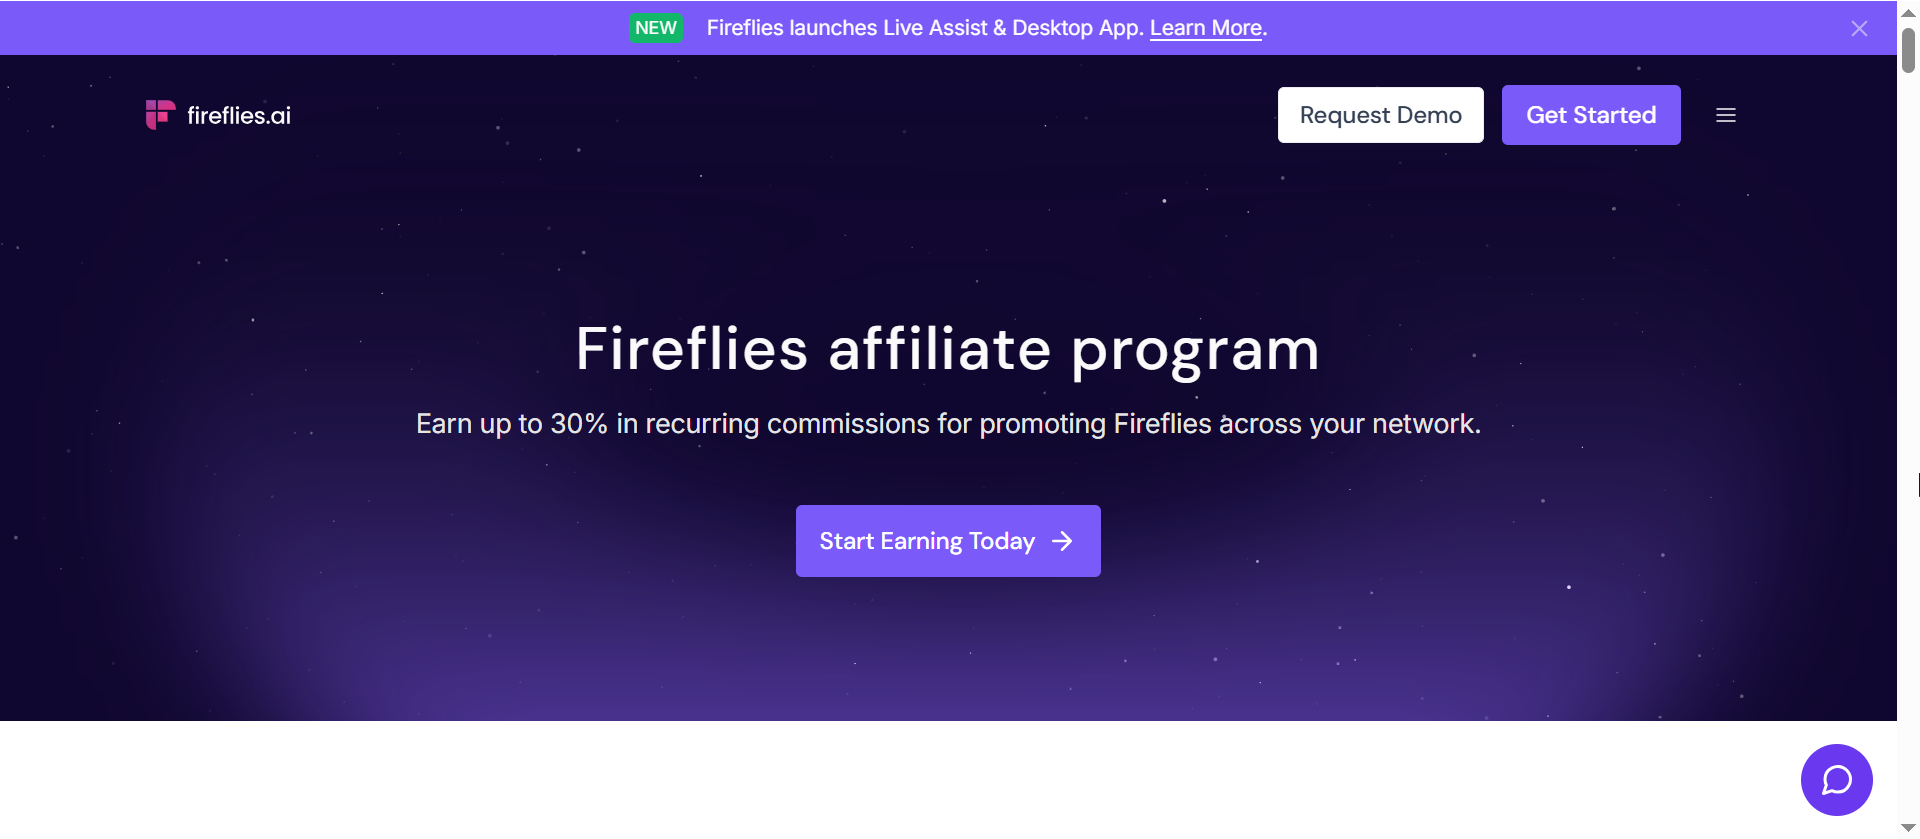
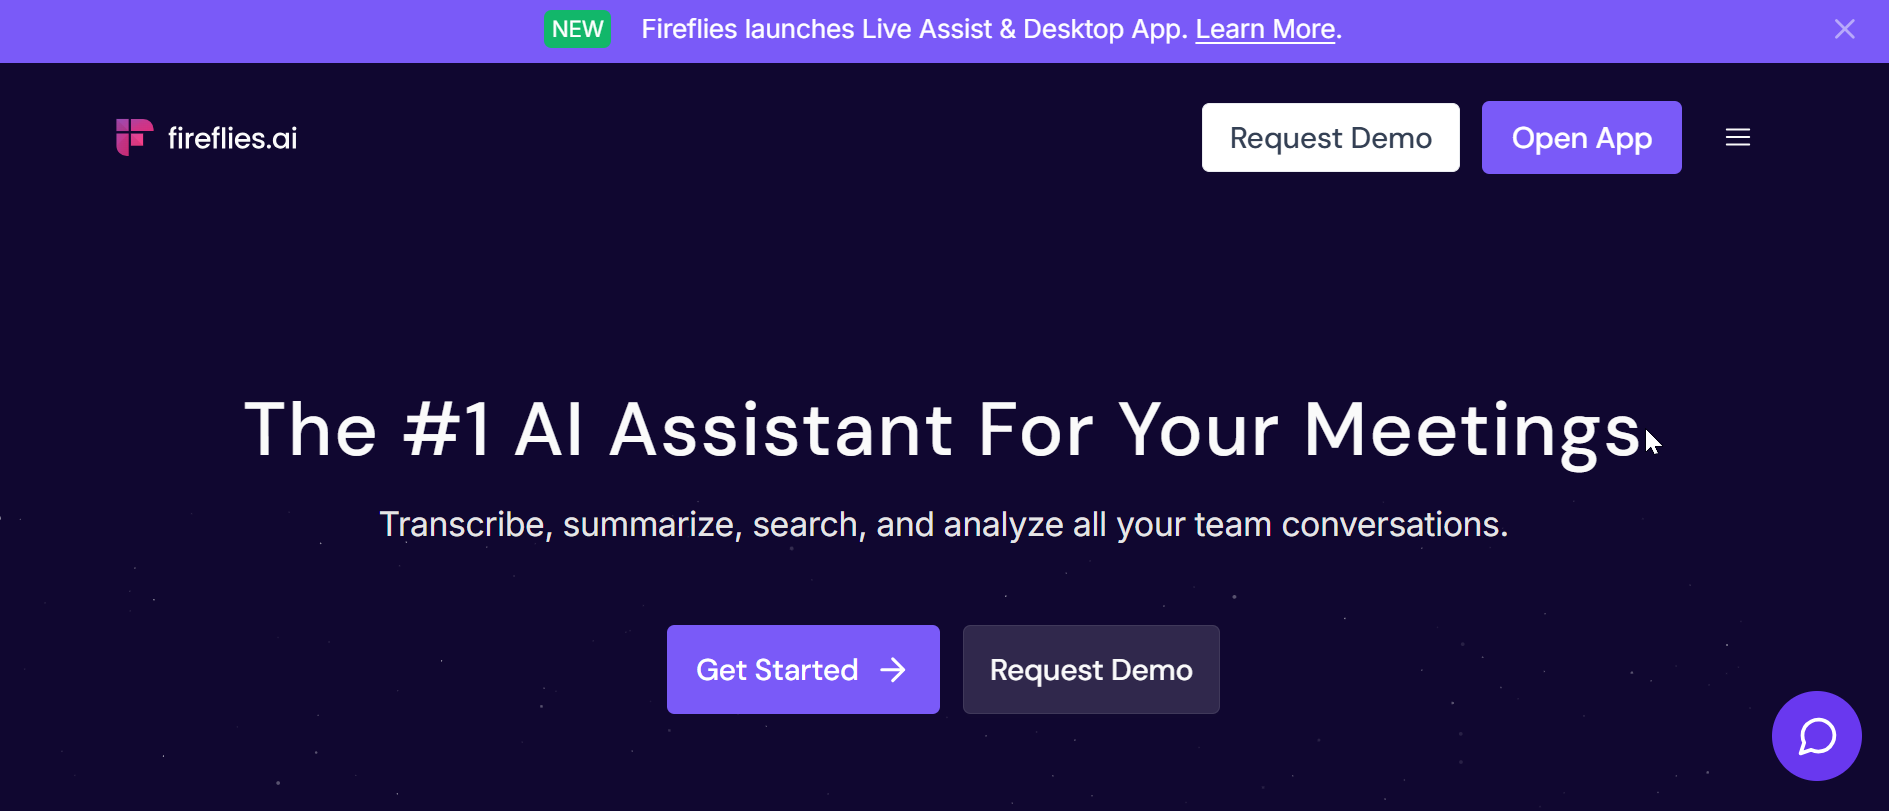
feat: implement initial B2B AI directory landing page with category filtering and tool cards

diff --git a/src/app/category/ai-meetings-intelligence/page.tsx b/src/app/category/ai-meetings-intelligence/page.tsx
@@ -1,0 +1,231 @@
+import type { Metadata } from "next";
+import Link from "next/link";
+import { platforms } from "@/data/platforms";
+import { Mic2, ArrowRight, Sparkles, CheckCircle2 } from "lucide-react";
+
+export const metadata: Metadata = {
+  title: "Top AI Meeting Assistants & Intelligence Tools | b2baistack.com",
+  description:
+    "Discover the best AI notetakers and meeting intelligence software to automate transcriptions, generate summaries, and sync data directly to your CRM.",
+  alternates: {
+    canonical: "https://b2baistack.com/category/ai-meetings-intelligence",
+  },
+  openGraph: {
+    title: "Top AI Meeting Assistants & Intelligence Tools | b2baistack.com",
+    description:
+      "Discover the best AI notetakers and meeting intelligence software to automate transcriptions, generate summaries, and sync data directly to your CRM.",
+    url: "https://b2baistack.com/category/ai-meetings-intelligence",
+    type: "website",
+  },
+};
+
+const CATEGORY_NAME = "AI Meetings & Intelligence";
+
+const categoryTools = platforms
+  .filter((p) => {
+    if (Array.isArray((p as any).categories)) {
+      return (p as any).categories.includes(CATEGORY_NAME);
+    }
+    return p.category === CATEGORY_NAME;
+  })
+  .sort((a: any, b: any) => {
+    if (a.featured && !b.featured) return -1;
+    if (!a.featured && b.featured) return 1;
+    return 0;
+  });
+
+const benefits = [
+  "Eliminate manual note-taking from every meeting",
+  "Get AI-generated summaries and action items instantly",
+  "Sync structured data directly to your CRM automatically",
+  "Search and replay any conversation across your entire team",
+  "Surface conversation intelligence to coach your sales reps",
+  "Stay aligned across distributed teams with zero friction",
+];
+
+export default function AIMeetingsIntelligencePage() {
+  return (
+    <div className="min-h-screen bg-[#050505] text-white font-sans">
+      {/* Ambient Background */}
+      <div className="fixed inset-0 pointer-events-none overflow-hidden z-0">
+        <div className="absolute top-[5%] left-[10%] w-[600px] h-[600px] rounded-full bg-indigo-900/15 blur-[140px]" />
+        <div className="absolute bottom-[10%] right-[10%] w-[500px] h-[500px] rounded-full bg-blue-900/10 blur-[120px]" />
+      </div>
+
+      {/* Nav */}
+      <nav className="relative z-50 flex items-center justify-between px-6 md:px-12 py-4 border-b border-white/[0.05] bg-black/20 backdrop-blur-xl">
+        <Link
+          href="/"
+          className="flex items-center gap-2 text-white font-semibold tracking-tight text-sm hover:opacity-80 transition-opacity"
+        >
+          <Sparkles className="w-4 h-4 text-indigo-400" />
+          <span>B2B AI Stack</span>
+        </Link>
+        <div className="flex items-center gap-2 text-xs text-gray-400">
+          <Link href="/" className="hover:text-white transition-colors">
+            Home
+          </Link>
+          <span className="text-gray-700">/</span>
+          <span className="text-gray-300">AI Meetings &amp; Intelligence</span>
+        </div>
+      </nav>
+
+      <main className="relative z-10 max-w-5xl mx-auto px-6 py-16 md:py-24">
+        {/* Category Badge */}
+        <div className="inline-flex items-center gap-2 px-3 py-1 rounded-full bg-indigo-500/10 border border-indigo-500/20 text-indigo-300 text-[11px] font-medium tracking-wide uppercase mb-6">
+          <span className="w-1.5 h-1.5 rounded-full bg-indigo-400 animate-pulse" />
+          Category · Published &amp; Active
+        </div>
+
+        {/* Hero Heading */}
+        <h1 className="text-4xl md:text-5xl lg:text-6xl font-bold tracking-tighter leading-none text-white mb-6">
+          AI Meetings &amp;{" "}
+          <span className="bg-gradient-to-r from-indigo-400 to-blue-400 bg-clip-text text-transparent">
+            Intelligence
+          </span>
+        </h1>
+
+        {/* Category Description */}
+        <p className="text-lg md:text-xl text-gray-400 max-w-2xl leading-relaxed mb-4">
+          Automate your meeting workflows. Transform voice conversations into
+          actionable insights, automated summaries, and structured CRM data with
+          AI-powered notetakers.
+        </p>
+
+        {/* Target Audience Chips */}
+        <div className="flex flex-wrap gap-2 mb-12">
+          {["B2B Professionals", "Sales Teams", "Operations Leads"].map(
+            (tag) => (
+              <span
+                key={tag}
+                className="text-[11px] px-3 py-1 rounded-full border border-white/10 bg-white/[0.03] text-gray-400"
+              >
+                {tag}
+              </span>
+            )
+          )}
+        </div>
+
+        {/* Benefits Grid */}
+        <section className="mb-16">
+          <h2 className="text-xl font-semibold text-white mb-6 tracking-tight">
+            Why Meeting Intelligence Matters for B2B Teams
+          </h2>
+          <div className="grid grid-cols-1 sm:grid-cols-2 gap-3">
+            {benefits.map((benefit) => (
+              <div
+                key={benefit}
+                className="flex items-start gap-3 p-4 rounded-2xl bg-white/[0.02] border border-white/[0.06] hover:border-indigo-500/30 hover:bg-indigo-500/5 transition-all duration-300"
+              >
+                <CheckCircle2 className="w-4 h-4 text-indigo-400 mt-0.5 shrink-0" />
+                <span className="text-sm text-gray-300 leading-snug">
+                  {benefit}
+                </span>
+              </div>
+            ))}
+          </div>
+        </section>
+
+        {/* Tool Cards */}
+        <section>
+          <h2 className="text-xl font-semibold text-white mb-2 tracking-tight">
+            Top AI Meeting Tools
+          </h2>
+          <p className="text-sm text-gray-500 mb-8">
+            Hand-picked tools used by B2B professionals, sales teams, and
+            operations leads to capture and act on every conversation.
+          </p>
+
+          <div className="grid grid-cols-1 md:grid-cols-2 gap-5">
+            {categoryTools.map((platform: any) => {
+              const Icon = platform.icon ?? Mic2;
+              return (
+                <div
+                  key={platform.id}
+                  className={`relative flex flex-col p-6 rounded-3xl overflow-hidden transition-all duration-300 hover:-translate-y-1 ${
+                    platform.featured
+                      ? "bg-white/[0.02] border-2 border-indigo-500/60 shadow-[0_0_40px_-8px_rgba(79,70,229,0.4)]"
+                      : "bg-zinc-900/50 border border-white/[0.07] hover:border-white/[0.15] hover:shadow-[0_0_30px_rgba(99,102,241,0.07)]"
+                  }`}
+                >
+                  {/* Glow overlay */}
+                  <div className="absolute inset-0 bg-gradient-to-br from-indigo-500/5 via-transparent to-transparent opacity-0 hover:opacity-100 transition-opacity duration-700 pointer-events-none" />
+
+                  <div className="relative z-10 flex items-start justify-between mb-4">
+                    <div className="p-2.5 bg-white/[0.04] border border-white/[0.08] rounded-xl">
+                      <Icon className="w-5 h-5 text-indigo-300" />
+                    </div>
+                    <div className="flex flex-col items-end">
+                      <span className="text-sm font-semibold text-white">
+                        {platform.metricBusiness ?? platform.metric}
+                      </span>
+                      <span className="text-[9px] uppercase tracking-wider text-gray-500">
+                        {platform.metricLabelBusiness ?? platform.metricLabel}
+                      </span>
+                    </div>
+                  </div>
+
+                  <div className="relative z-10 flex items-center gap-2 mb-2">
+                    <h3 className="text-base font-semibold text-white tracking-tight">
+                      {platform.name}
+                    </h3>
+                    {platform.featured && (
+                      <span className="px-2 py-[2px] rounded-full bg-cyan-900/30 border border-cyan-500/40 text-[9px] font-bold tracking-widest uppercase text-cyan-400">
+                        {platform.badgeText ?? "TOP PICK"}
+                      </span>
+                    )}
+                  </div>
+
+                  <p className="relative z-10 text-sm text-gray-400 leading-snug mb-4 flex-1">
+                    {platform.descBusiness ?? platform.descFreelancer ?? platform.shortDescription}
+                  </p>
+
+                  {platform.features && (
+                    <ul className="relative z-10 mb-5 space-y-1.5">
+                      {platform.features.slice(0, 3).map((feat: string, i: number) => (
+                        <li key={i} className="flex items-start gap-2 text-xs text-gray-500">
+                          <span className="mt-0.5 w-1 h-1 rounded-full bg-indigo-500/60 shrink-0" />
+                          <span className="line-clamp-1">
+                            {feat.includes(":") ? feat.split(":")[0] : feat}
+                          </span>
+                        </li>
+                      ))}
+                    </ul>
+                  )}
+
+                  <div className="relative z-10 flex gap-2 mt-auto">
+                    <Link
+                      href={`/tool/${platform.id}`}
+                      className="flex-1 text-center px-4 py-2 rounded-full bg-slate-800/60 hover:bg-slate-700 border border-slate-700 text-xs font-medium text-slate-200 hover:text-white transition-colors"
+                    >
+                      View Details
+                    </Link>
+                    <a
+                      href={platform.affiliateLink}
+                      target="_blank"
+                      rel="noopener noreferrer"
+                      className="flex items-center gap-1 px-4 py-2 rounded-full bg-indigo-600 hover:bg-indigo-500 text-xs font-semibold text-white transition-colors"
+                    >
+                      {platform.ctaText ?? "Get Started"}
+                      <ArrowRight className="w-3 h-3" />
+                    </a>
+                  </div>
+                </div>
+              );
+            })}
+          </div>
+        </section>
+
+        {/* Back CTA */}
+        <div className="mt-16 text-center">
+          <Link
+            href="/"
+            className="inline-flex items-center gap-2 text-sm text-gray-400 hover:text-white transition-colors"
+          >
+            ← Browse all B2B AI categories
+          </Link>
+        </div>
+      </main>
+    </div>
+  );
+}

diff --git a/src/data/platforms.ts b/src/data/platforms.ts
@@ -133,9 +133,11 @@ export const platforms = [
     id: "fireflies-ai",
     name: "Fireflies.ai",
     featured: true,
-    category: "Sales",
+    badgeText: "Best AI Notetaker",
+    category: "AI Meetings & Intelligence",
+    categories: ["AI Meetings & Intelligence", "Sales"],
     icon: Mic2,
-    affiliateLink: "https://fireflies.ai/?fpr=ihor69",
+    affiliateLink: "https://fireflies.ai/?fpr=b2baistack",
     metric: "100%",
     metricLabel: "Meetings Captured",
     metricBusiness: "0 min",
@@ -224,6 +226,7 @@ export const platforms = [
     slug: "gong",
     name: "Gong",
     category: "Sales",
+    categories: ["Sales", "AI Meetings & Intelligence"],
     icon: TrendingUp,
     affiliateLink: "https://www.gong.io/",
     websiteUrl: "https://www.gong.io/",
@@ -457,6 +460,7 @@ export const platforms = [
     slug: "zoom",
     name: "Zoom",
     category: "Sales",
+    categories: ["Sales", "AI Meetings & Intelligence"],
     icon: Users,
     affiliateLink: "https://zoom.us/",
     websiteUrl: "https://zoom.us/",
@@ -475,6 +479,31 @@ export const platforms = [
       "End-to-end encryption and SOC 2 Type II compliance"
     ],
     ctaText: "Get Started Free",
-    expertRecommendation: "Zoom is the universal standard for video conferencing. However, simply recording calls is only half the battle. For B2B sales and operations teams who need to turn meetings into actionable data, our Top Pick [Fireflies.ai](https://fireflies.ai/?fpr=ihor69) is an essential upgrade. It automatically transcribes, summarizes, and extracts action items from your Zoom calls, routing the intelligence directly into your CRM.\n\nCheck out [Fireflies.ai](https://fireflies.ai/?fpr=ihor69) to automate your meeting notes and boost sales productivity."
+    expertRecommendation: "Zoom is the universal standard for video conferencing. However, simply recording calls is only half the battle. For B2B sales and operations teams who need to turn meetings into actionable data, our Top Pick [Fireflies.ai](https://fireflies.ai/?fpr=b2baistack) is an essential upgrade. It automatically transcribes, summarizes, and extracts action items from your Zoom calls, routing the intelligence directly into your CRM.\n\nCheck out [Fireflies.ai](https://fireflies.ai/?fpr=b2baistack) to automate your meeting notes and boost sales productivity."
+  },
+  {
+    id: "otter-ai",
+    slug: "otter-ai",
+    name: "Otter.ai",
+    category: "AI Meetings & Intelligence",
+    categories: ["AI Meetings & Intelligence"],
+    icon: Mic2,
+    affiliateLink: "https://otter.ai/",
+    websiteUrl: "https://otter.ai/",
+    metric: "Real-Time",
+    metricLabel: "Transcription",
+    shortDescription: "Get real-time AI transcription, automated meeting summaries, and instant action items synced to your team.",
+    descFreelancer: "Capture every word from client meetings with live transcription and instant shareable summaries.",
+    descBusiness: "Empower your entire team with real-time meeting transcription, automated summaries, and action items that sync instantly into your workspace.",
+    imagePath: "https://image.thum.io/get/width/1200/crop/675/https://otter.ai/",
+    longDescription: "Otter.ai delivers real-time AI transcription and meeting intelligence that transforms how B2B teams capture and act on information from every conversation. It automatically joins your Zoom, Google Meet, and Teams calls to produce live, searchable transcripts, generate concise summaries, and highlight action items within seconds of a meeting ending. For sales teams, ops leads, and managers, Otter.ai eliminates the administrative burden of note-taking and ensures nothing falls through the cracks — from client discovery calls to internal stand-ups.",
+    features: [
+      "Live real-time transcription across Zoom, Meet, and Teams",
+      "Automated meeting summaries and action item extraction",
+      "Collaborative notes with highlights and comments",
+      "Instant sharing and searchable meeting archive"
+    ],
+    ctaText: "Try Otter Free",
+    expertRecommendation: "Otter.ai excels at real-time transcription and team collaboration around meeting notes. For teams that also need deep CRM integration and full conversation intelligence (call scoring, deal risk analysis, pipeline updates), our Top Pick [Fireflies.ai](https://fireflies.ai/?fpr=b2baistack) provides a more complete end-to-end solution that pushes data directly into HubSpot and Salesforce automatically.\n\nCheck out [Fireflies.ai](https://fireflies.ai/?fpr=b2baistack) if you need automated CRM sync and sales intelligence on top of transcription."
   }
 ];

diff --git a/src/app/page.tsx b/src/app/page.tsx
@@ -11,7 +11,7 @@ export default function Home() {
   const [isPaused, setIsPaused] = useState(false);
   const [activeCategory, setActiveCategory] = useState("All");
 
-  const categories = ["Content Creation", "Marketing", "Sales", "Customer Support", "Operations", "HR", "IT & Dev", "All"];
+  const categories = ["Content Creation", "Marketing", "Sales", "AI Meetings & Intelligence", "Customer Support", "Operations", "HR", "IT & Dev", "All"];
 
   const filteredPlatforms = platforms.filter(platform => {
     if (activeCategory === "All") return true;
